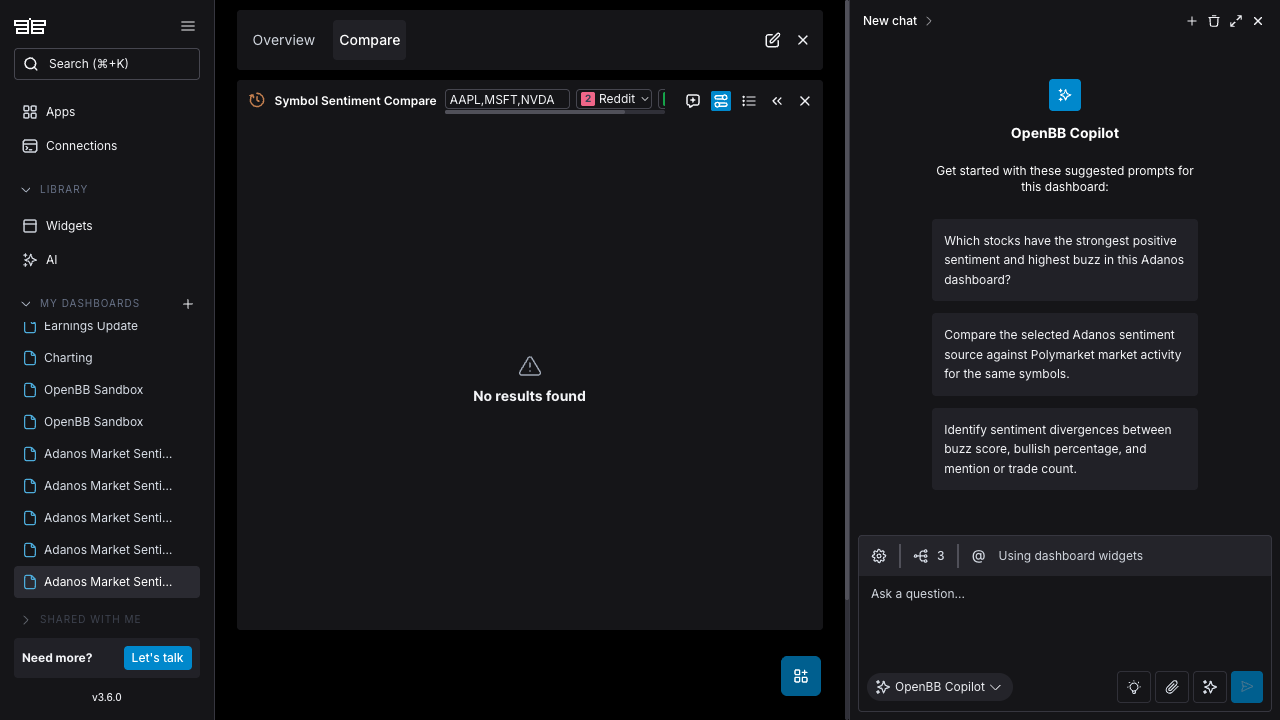
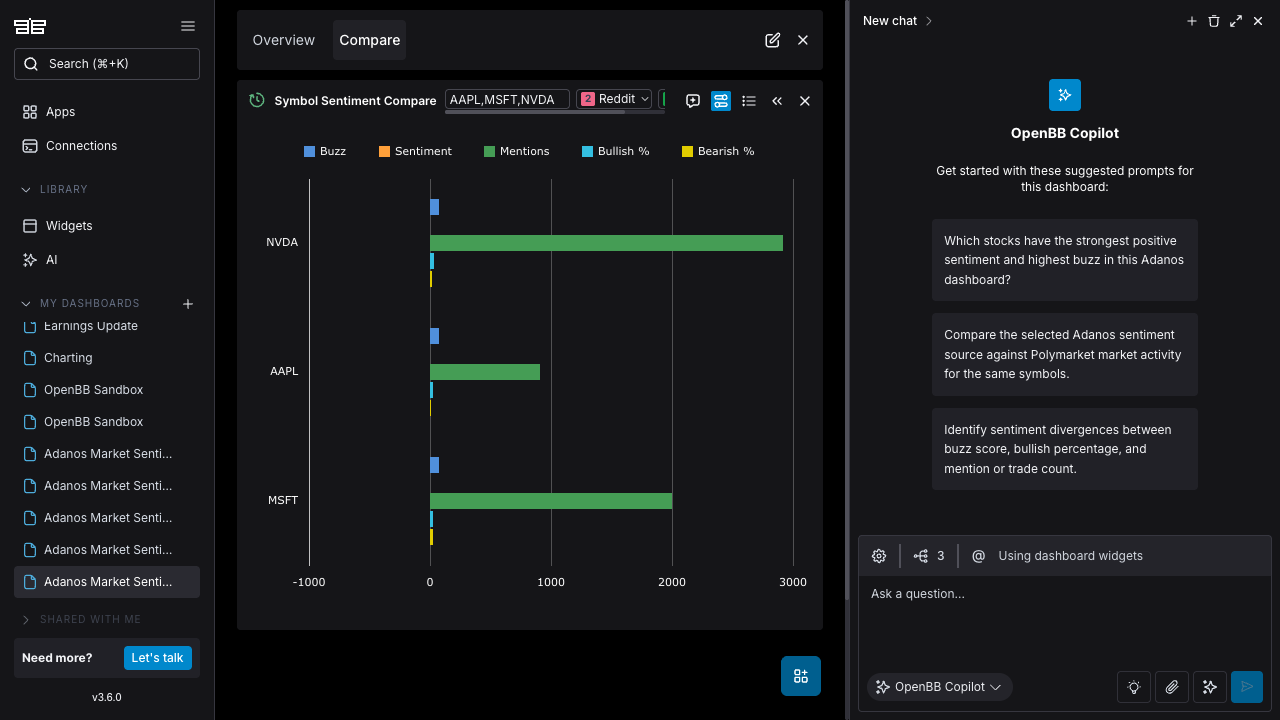
Refresh OpenBB Marketplace screenshots

diff --git a/README.md b/README.md
@@ -57,7 +57,7 @@ Marketplace screenshots are hosted by the backend under `/static/openbb/`, for e
 
 - `/static/openbb/adanos-openbb-overview.png`
 - `/static/openbb/adanos-openbb-compare.png`
-- `/static/openbb/adanos-openbb-connection.png`
+- `/static/openbb/adanos-openbb-trending.png`
 
 Run it locally from the repository root:
 
